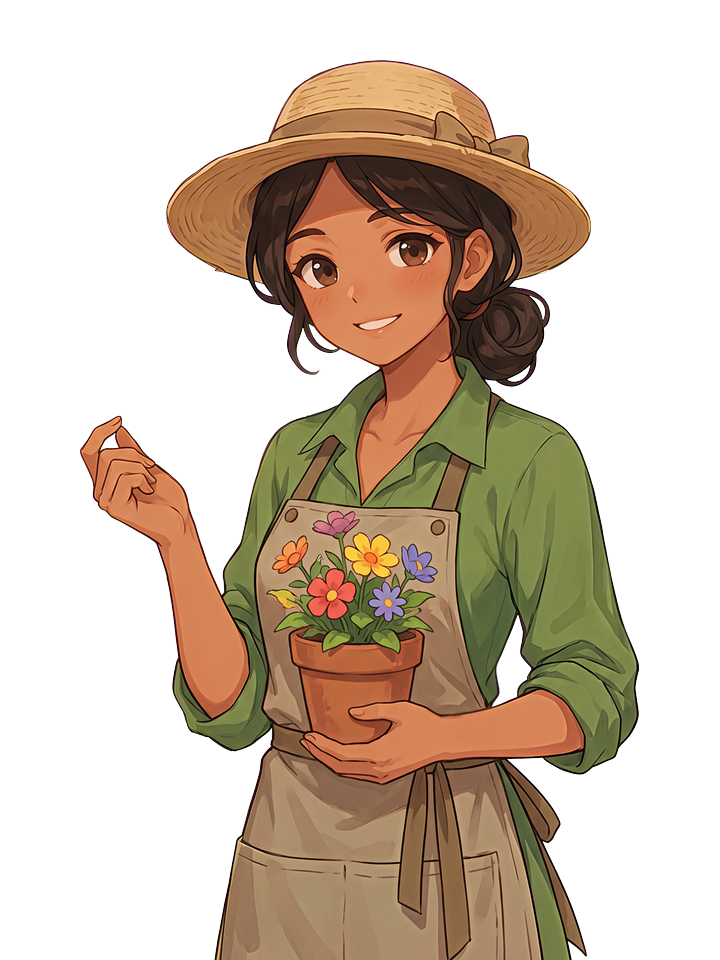
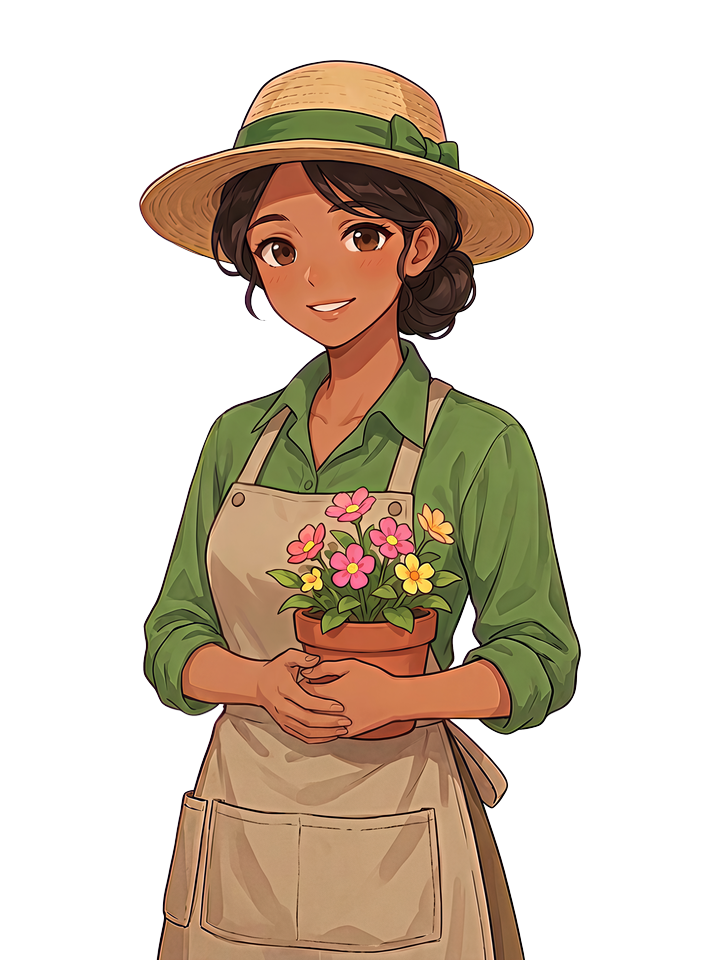
Day portraits: picks (01-03 user, 04-15 recommended), tidy keying; shop: sell_reward_limit message
- build_day_portraits.tidy: plum cloth no longer goes see-through (poet's beret), steam over
  magenta becomes white mist, generator specks are dropped (fleck over the postman's cap).
- Redrawn takes: the postman holds a letter, the farmer's hand rests on his hip with the whole hoe
  in frame, six residents' pinching hands made natural.
- shop_sell: the day's selling cap (server/economy.py sell_reward_limit) has its own line.

diff --git a/tools/build_day_portraits.py b/tools/build_day_portraits.py
@@ -1,8 +1,10 @@
 """Dialogue portraits of the 15 day residents (day_folk.gd LOOKS), from generated sheets.
 
 Each resident was drawn on its own (2026-10-16, Tripo Studio image tool, Nano Banana Pro, 3:4 4K,
-free) with the Sora standee as the style reference, on flat magenta, into
-output/ui-art-20261015/portraits/dayp_<id>_<n>.jpg. PICKS names the chosen take per resident.
+free) with the Sora standee as the style reference, on flat magenta (redraws use the earlier take
+as the reference: a letter for the postman, natural hands for the rest), into
+output/ui-art-20261015/portraits/dayp_<id>_<n>.jpg. PICKS names the chosen take per resident
+(01-03 picked by the user; 04-15 recommended, waiting for the user's OK).
 
 For every resident this writes
   game/assets/ui/standee/day_<id>.png   the background-free standee the dialogue shows
@@ -18,6 +20,7 @@ from __future__ import annotations
 import sys
 from pathlib import Path
 
+import cv2
 import numpy as np
 from PIL import Image, ImageDraw
 
@@ -26,10 +29,51 @@ sys.path.insert(0, str(ROOT / "tools"))
 import build_standees  # noqa: E402
 from build_brand_art import raw_dir  # noqa: E402
 
-PICKS = {"postman": 3, "fisher": 1, "farmer": 1, "sweeper": 1, "gentleman": 1, "stargazer": 1, "lamplighter": 1,
-         "gardener": 1, "scout": 1, "regular": 1, "miller": 1, "shopkeeper": 1, "kid": 1, "stroller": 1, "poet": 1}
+PICKS = {"postman": 3, "fisher": 1, "farmer": 3, "sweeper": 3, "gentleman": 3, "stargazer": 3, "lamplighter": 4,
+         "gardener": 3, "scout": 1, "regular": 4, "miller": 2, "shopkeeper": 1, "kid": 1, "stroller": 2, "poet": 2}
 UI = ROOT / "game" / "assets" / "ui"
 CARD = (600, 720)
+
+
+def tidy(rgb: np.ndarray, rgba: np.ndarray) -> np.ndarray:
+    """Fixes on top of build_standees.key for these sheets (steam, plum cloth, specks).
+
+    Purple and plum cloth (the poet's beret) reads as magenta spill to the keyer and went
+    see-through: well inside the figure (8 px from the backdrop that reaches the border) a pixel is
+    as opaque as its distance from the backdrop says, in its own colour. Specks the generator left
+    in the air (a fleck over the postman's cap) are dropped: pieces under 0.5% of the figure.
+    """
+    bg = build_standees.backdrop(rgb)
+    dist = np.sqrt(((rgb - bg[None, None, :]) ** 2).sum(-1))
+    far = np.clip((dist - build_standees.NEAR) / (build_standees.FAR - build_standees.NEAR), 0, 1)
+    open_bg = (far < 0.5).astype(np.uint8)
+    count, labels, stats, _ = cv2.connectedComponentsWithStats(open_bg, 4)
+    edge = set(labels[0, :]) | set(labels[-1, :]) | set(labels[:, 0]) | set(labels[:, -1])
+    outside = np.isin(labels, sorted(edge - {0}))  # label 0 is the figure itself
+    inside = cv2.distanceTransform((~outside).astype(np.uint8), cv2.DIST_L2, 5) > 8
+    # Light pink with full strong channels is white (steam, a glint) over the backdrop: white, as
+    # opaque as its weak channel says. Everything else tinted keeps the keyer's answer; untinted
+    # cloth (a plum beret) is raised as above.
+    strong, weak = bg > 0.5, bg <= 0.5
+    spill = rgb[..., strong].min(-1) - rgb[..., weak].max(-1)
+    strong_level = rgb[..., strong].min(-1)
+    weak_level = rgb[..., weak].max(-1)
+    misty = (strong_level > 0.85) & (weak_level > 0.12) & (spill >= 0.12)
+    raise_to = np.where(inside & (spill < 0.3) & ~misty, np.maximum(rgba[..., 3], far), rgba[..., 3])
+    raised = raise_to > rgba[..., 3] + 1e-3
+    out = rgba.copy()
+    out[..., 3] = raise_to
+    out[..., :3] = np.where(raised[..., None], rgb, rgba[..., :3])
+    misty &= (out[..., 3] > 0.0) | inside
+    out[..., :3] = np.where(misty[..., None], 1.0, out[..., :3])
+    out[..., 3] = np.where(misty, weak_level, out[..., 3])
+    solid = (out[..., 3] > 0.3).astype(np.uint8)
+    count, labels, stats, _ = cv2.connectedComponentsWithStats(solid, 8)
+    if count > 2:
+        biggest = stats[1:, cv2.CC_STAT_AREA].max()
+        for index in range(1, count):
+            if stats[index, cv2.CC_STAT_AREA] < biggest * 0.005: out[labels == index, 3] = 0.0
+    return out
 
 
 def card(standee: Image.Image) -> Image.Image:
@@ -57,7 +101,7 @@ def main() -> None:
         if not source.exists():
             sys.exit(f"missing {source}")
         rgb = np.asarray(Image.open(source).convert("RGB"), np.float32) / 255.0
-        standee = build_standees.frame(build_standees.key(rgb))
+        standee = build_standees.frame(tidy(rgb, build_standees.key(rgb)))
         standee.save(UI / "standee" / f"day_{ident}.png", optimize=True)
         card(standee).save(UI / f"day_{ident}.png", optimize=True)
         print(ident, take)
